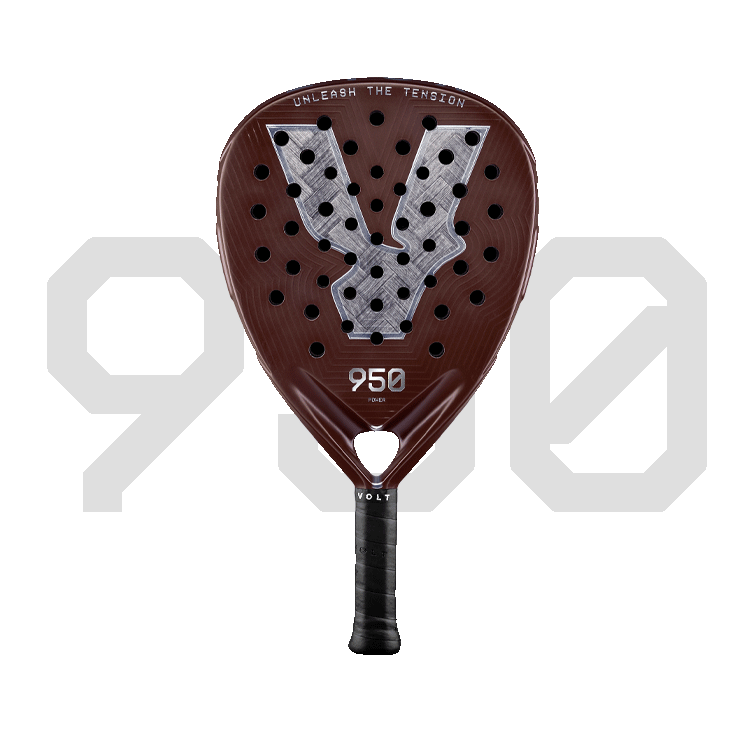
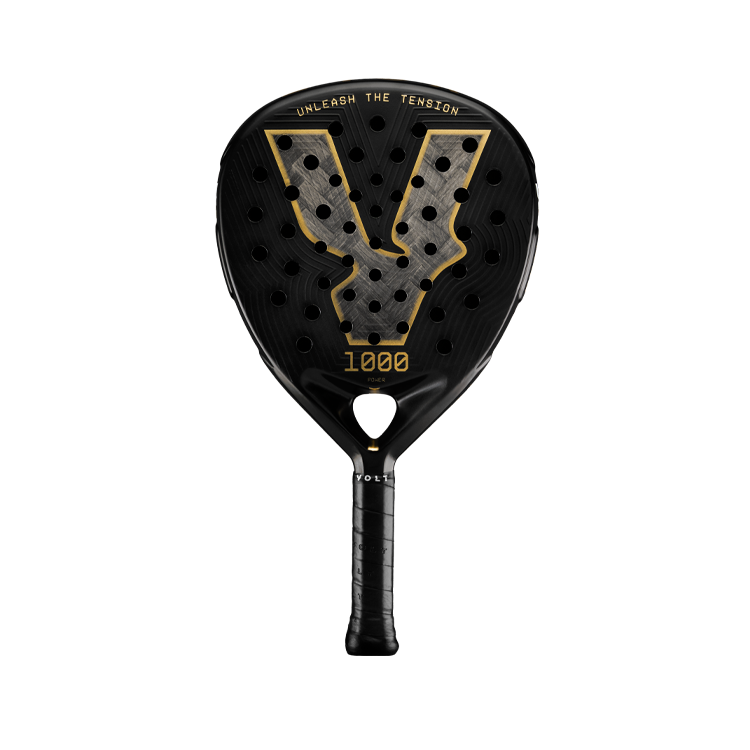
Use current v5 racket images and specs
The V1000 and V500 images were of older models (Volt 950 and 900).
Replace them with the official Volt 1000 v5 and 500 v5 images, and
the V600 with its plain front view. Card specs now come from the
official v5 product pages; the V500 v5 is a round control racket, not
an all-round teardrop. CLAUDE.md notes the v5 sources so old models
aren't mixed in again.

Claude-Session: https://claude.ai/code/session_01MT4sbEVohiZ1wrJNaguY3h

Changed region(s): [[0.0613, 0.092, 0.9507, 0.8893]]

diff --git a/index.html b/index.html
@@ -380,7 +380,7 @@
         <div class="section-head reveal">
           <p class="eyebrow">The range</p>
           <h2>Choose your voltage</h2>
-          <p>Three rackets, three ways to play. All prices include delivery in Bangkok.</p>
+          <p>Three rackets, from maximum power to total control. All prices include delivery in Bangkok.</p>
         </div>
         <div class="rackets-grid" id="rackets-grid"></div>
       </div>
@@ -398,7 +398,7 @@
           <li class="step reveal">
             <span class="step-num">01</span>
             <h3>Choose</h3>
-            <p>Pick your racket: power, control or all-round. Not sure? Ask us and we'll help you find the right one for your game.</p>
+            <p>Pick your racket: maximum power or pure control. Not sure? Ask us and we'll help you find the right one for your game.</p>
           </li>
           <li class="step reveal">
             <span class="step-num">02</span>
@@ -427,9 +427,9 @@
             <p class="eyebrow">About Volt</p>
             <h2>Why Volt Padel</h2>
             <p class="lead" style="margin-top:24px">Volt Padel is a premium padel brand from Portugal, known for top-quality equipment and a design you won't see on every other court.</p>
-            <p>Every racket is built for players who take their game seriously: aluminized carbon faces, a 3K carbon structure and a fast-recovery EVA core.</p>
+            <p>Every racket is built for players who take their game seriously: carbon faces, a 3K carbon structure and a fast-recovery EVA core.</p>
             <ul class="why">
-              <li>Aluminized carbon faces with an ultra 3D high-relief surface for grip and spin</li>
+              <li>Carbon faces with an ultra 3D high-relief surface for grip and spin</li>
               <li>Flexible shock-absorption technology for comfort in long matches</li>
               <li>Premium cover and racket protector included with every racket</li>
               <li>Local support in Bangkok from the official distributor</li>
@@ -439,7 +439,7 @@
             <div class="stat"><b>PT</b><span>Designed in Portugal</span></div>
             <div class="stat"><b>3</b><span>Models in Thailand</span></div>
             <div class="stat"><b>38mm</b><span>Profile &amp; core</span></div>
-            <div class="stat"><b>350–370g</b><span>Weight range</span></div>
+            <div class="stat"><b>345–370g</b><span>Weight range</span></div>
           </div>
         </div>
 
@@ -536,8 +536,8 @@
       {
         id: "V1000", type: "Power", shape: "Diamond", thb: 13500,
         img: "assets/v1000.png", badge: "Max power", badgeVolt: true,
-        desc: "For attacking players who want maximum power without giving up comfort. Explosive response with a solid, precise feel.",
-        specs: [["Shape", "Diamond"], ["Balance", "High"], ["Faces", "24K silver aluminized carbon"], ["Core", "Black Comfort EVA, 38mm"], ["Weight", "350–370g"]]
+        desc: "Pure power, redefined. Built for players who want explosive power with precision: a bold diamond shape and advanced weight distribution for maximum force.",
+        specs: [["Shape", "Diamond"], ["Balance", "High"], ["Faces", "24K silver aluminized carbon"], ["Core", "Black EVA, 38mm"], ["Weight", "350–370g"]]
       },
       {
         id: "V600", type: "Control", shape: "Round", thb: 12500,
@@ -546,10 +546,10 @@
         specs: [["Shape", "Round"], ["Balance", "Medium-low"], ["Faces", "12K aluminized carbon"], ["Core", "Black EVA, 38mm"], ["Weight", "350–370g"]]
       },
       {
-        id: "V500", type: "All-round", shape: "Teardrop", thb: 9500,
+        id: "V500", type: "Control", shape: "Round", thb: 9500,
         img: "assets/v500.png", badge: "Best value",
-        desc: "The perfect balance of power, control and comfort. Versatile and consistent, whatever your style of play.",
-        specs: [["Shape", "Teardrop"], ["Balance", "Medium-high"], ["Faces", "12K aluminized carbon"], ["Core", "EVA, 38mm"], ["Weight", "350–370g"]]
+        desc: "Total control, total confidence. A classic round racket for players who value consistency and smart shot selection, with a smooth, stable feel.",
+        specs: [["Shape", "Round"], ["Balance", "Low"], ["Faces", "3K twill carbon"], ["Core", "Black Comfort EVA, 38mm"], ["Weight", "345–365g"]]
       }
     ];
     // ------------------------------------------------------------------------

diff --git a/CLAUDE.md b/CLAUDE.md
@@ -18,7 +18,7 @@ Landing page and sales channel for **Volt Padel Thailand**. Javi Tortajada is th
 
 | Model | Type      | Shape    | Price THB |
 |-------|-----------|----------|-----------|
-| V500  | All-round | Teardrop | ฿9,500    |
+| V500  | Control   | Round    | ฿9,500    |
 | V600  | Control   | Round    | ฿12,500   |
 | V1000 | Power     | Diamond  | ฿13,500   |
 
@@ -38,7 +38,8 @@ Prices are in Thai baht only. They are higher than voltpadel.com's euro prices b
   - Page sections in order: nav, hero, shipping bar, rackets, how to order, about and coach teaser, FAQ, footer, WhatsApp FAB.
 - `assets/`: logo and racket images, downloaded from the voltpadel.com Squarespace CDN. Never hotlink them.
   - `volt-padel-logo.png` is the original white logo; `volt-padel-logo-dark.png` is the recolored version for light backgrounds.
-  - `v1000.png`, `v600.png`, `v500.png` are the racket images.
+  - `v1000.png`, `v600.png`, `v500.png` are the current **v5** models (Volt 1000 v5, 600 v5, 500 v5). voltpadel.com also has older models (950, 900, 800…) with similar images. Don't mix them up: the model number is printed on the racket.
+  - Specs on the cards come from the official v5 product pages: voltpadel.com/shop/products/p/volt-1000-v5, /volt-600-v5, /volt-500-v5.
 - `README.md`: local preview and deployment steps.
 
 ## Commands
